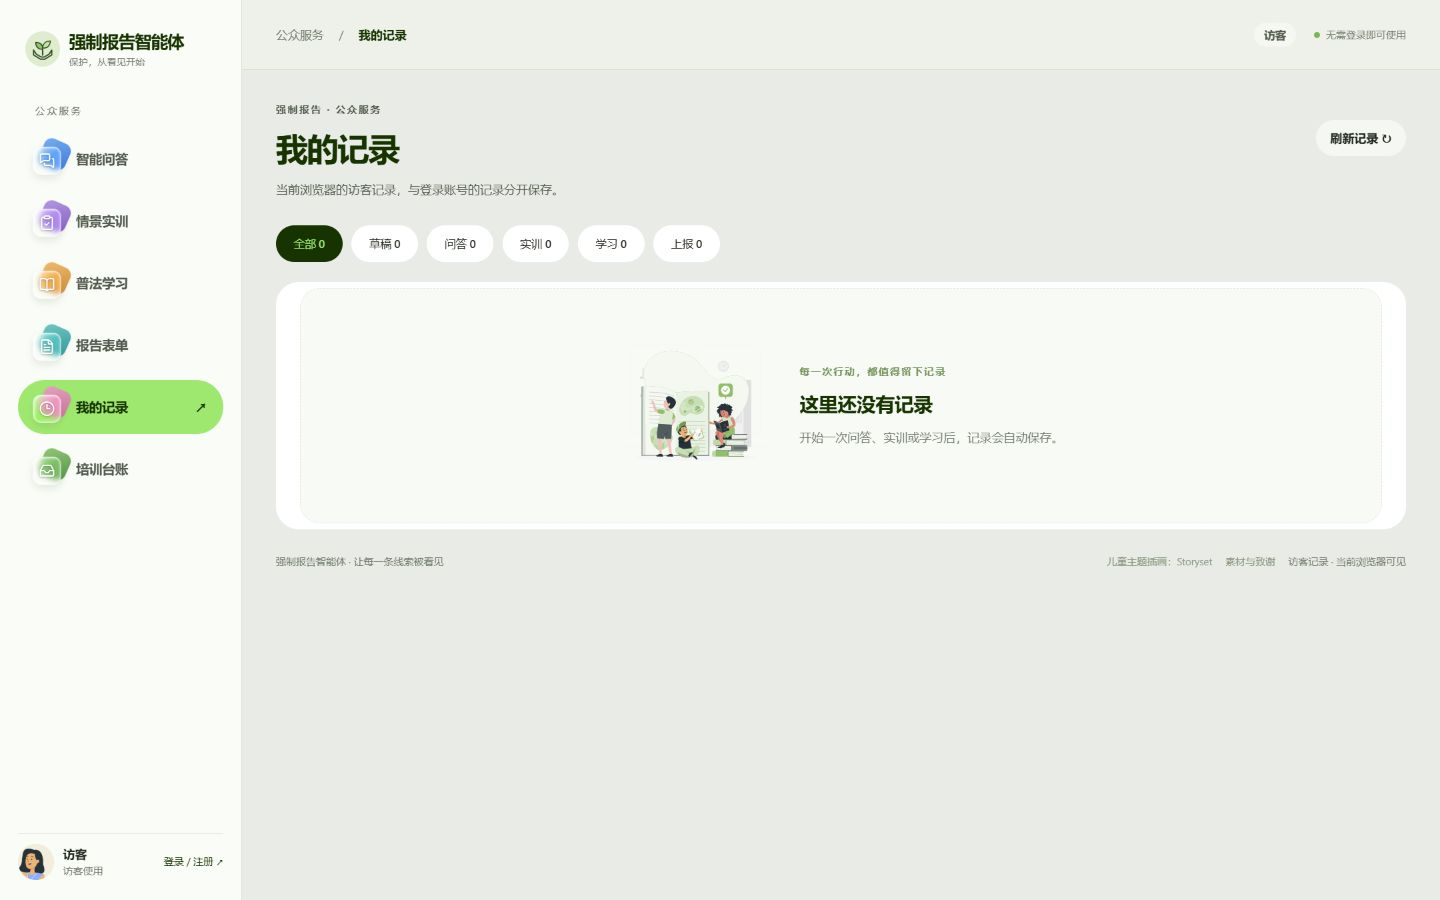
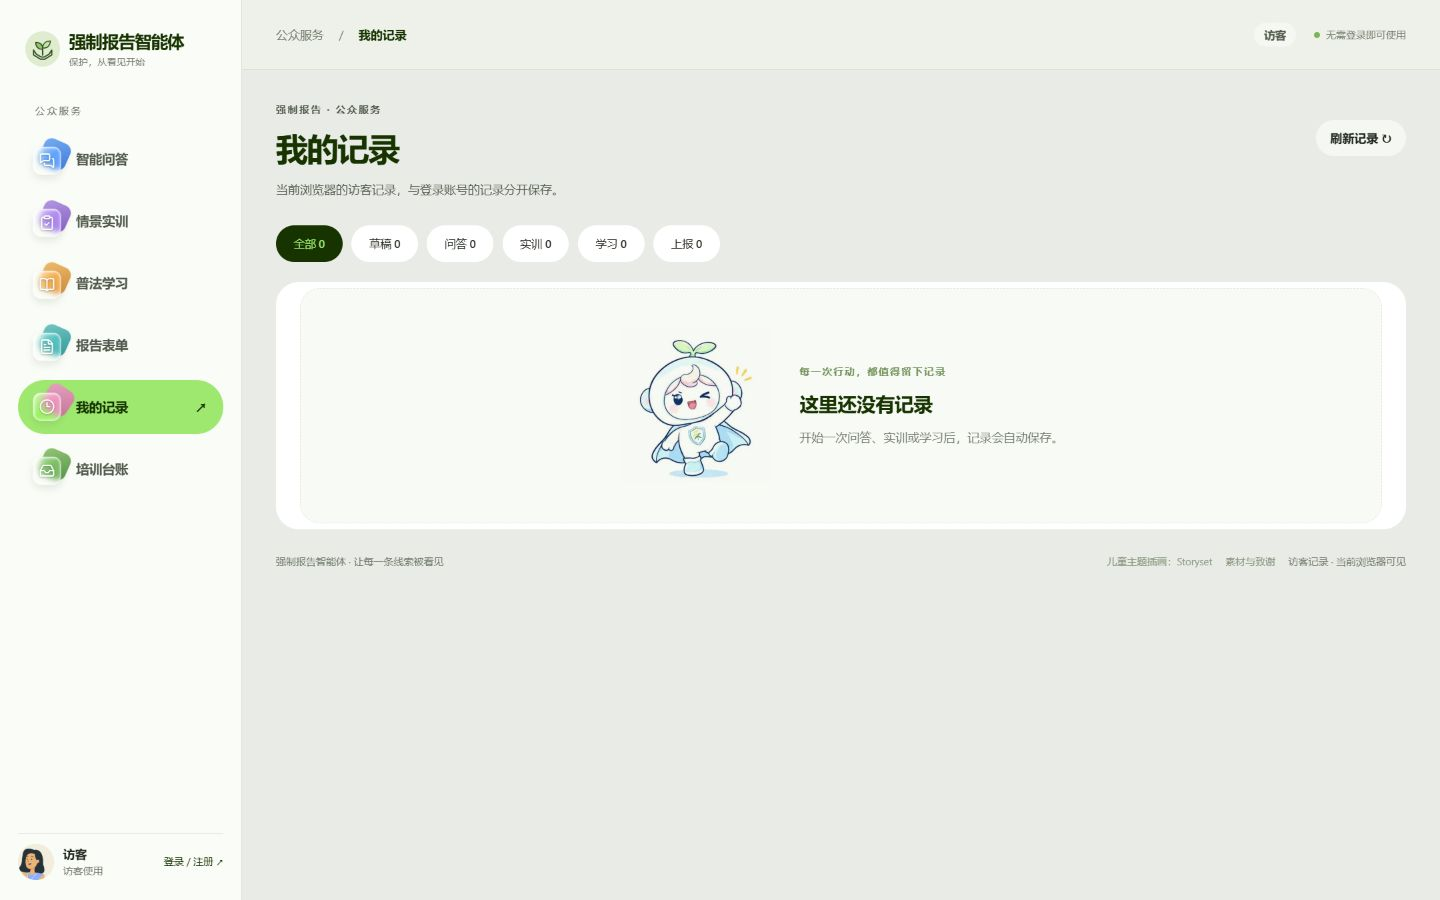
Integrate project mascot artwork into public service pages

Changed region(s): [[0.4375, 0.3733, 0.5312, 0.5289], [0.0, 0.4356, 0.0625, 0.4667]]

diff --git a/public/visual.js b/public/visual.js
@@ -4,15 +4,19 @@ const motion = matchMedia('(prefers-reduced-motion: reduce)');
 const observed = new WeakSet();
 let installed = false, frame = 0, lastCard = null;
 export const art = (name, className = '', eager = false) => {
+  // Project-supplied artwork; the sheet's bottom-right pose greets new visitors.
+  if (name === 'mascot-wave') return `<span class="theme-art mascot-art mascot-sprite ${className}" aria-hidden="true"><img src="/assets/mascot/guardian-expressions.jpg" width="1254" height="1254" alt="" decoding="async" loading="${eager ? 'eager' : 'lazy'}"></span>`;
+  const mascots = { 'mascot-question': ['/assets/mascot/guardian-question.png', 1078, 1459], 'mascot-confident': ['/assets/mascot/guardian-confident.png', 1254, 1254] };
+  if (mascots[name]) { const [src, width, height] = mascots[name]; return `<img class="theme-art mascot-art ${className}" src="${src}" width="${width}" height="${height}" alt="" aria-hidden="true" decoding="async" loading="${eager ? 'eager' : 'lazy'}">`; }
   const files = { support: '/assets/visual/children-support.svg', learning: '/assets/visual/children-learning.svg', reading: '/assets/visual/children-reading.svg' };
   return `<img class="theme-art ${className}" src="${files[name] || files.reading}" width="500" height="500" alt="" aria-hidden="true" decoding="async" loading="${eager ? 'eager' : 'lazy'}">`;
 };
 export function banner(kind) {
   const training = kind === 'training';
-  return `<section class="children-banner ${training ? 'training-banner' : 'learning-banner'}" data-reveal><div class="children-banner-copy"><span class="visual-eyebrow">${training ? '学会倾听，练习守护' : '把保护孩子的知识，变成行动'}</span><h2>${training ? '站在孩子身边，听见每一句需要。' : '多了解一点，孩子就多一份保护。'}</h2><p>${training ? '在虚构情景中练习识别、沟通与报告，让真实的保护更有准备。' : '从报告制度到沟通方法，读懂保护未成年人的每一个关键环节。'}</p><div class="banner-points"><span>${training ? '倾听与回应' : '制度要点'}</span><i></i><span>${training ? '风险识别' : '真实来源'}</span><i></i><span>${training ? '五步实训' : '行动指引'}</span></div></div>${art(training ? 'learning' : 'reading', 'banner-art', true)}</section>`;
+  return `<section class="children-banner ${training ? 'training-banner' : 'learning-banner'}" data-reveal><div class="children-banner-copy"><span class="visual-eyebrow">${training ? '学会倾听，练习守护' : '把保护孩子的知识，变成行动'}</span><h2>${training ? '站在孩子身边，听见每一句需要。' : '多了解一点，孩子就多一份保护。'}</h2><p>${training ? '在虚构情景中练习识别、沟通与报告，让真实的保护更有准备。' : '从报告制度到沟通方法，读懂保护未成年人的每一个关键环节。'}</p><div class="banner-points"><span>${training ? '倾听与回应' : '制度要点'}</span><i></i><span>${training ? '风险识别' : '真实来源'}</span><i></i><span>${training ? '五步实训' : '行动指引'}</span></div></div>${art(training ? 'mascot-confident' : 'reading', 'banner-art', true)}</section>`;
 }
 export function emptyArtwork(title, description) {
-  return `<div class="empty illustrated-empty">${art('reading')}<div><span class="visual-eyebrow">每一次行动，都值得留下记录</span><h3>${title}</h3><p class="muted">${description}</p></div></div>`;
+  return `<div class="empty illustrated-empty">${art('mascot-wave')}<div><span class="visual-eyebrow">每一次行动，都值得留下记录</span><h3>${title}</h3><p class="muted">${description}</p></div></div>`;
 }
 export const artCredit = '<a class="art-credit" href="https://storyset.com/people" target="_blank" rel="noopener noreferrer">儿童主题插画：Storyset</a>';
 export function installVisuals(root) {

diff --git a/static-files.js b/static-files.js
@@ -9,7 +9,8 @@ const routes = new Map(Object.entries({
 for (const name of ['login.css', 'login.js', 'account.js', 'style.css', 'portal.css', 'portal.js', 'shell.js', 'report.js', 'receiver.js', 'common.js', 'model-brand.js', 'event-stream.js', 'report-drafts.js', 'report-tags.js', 'icons.js', 'visual.js', 'visual.css', 'activity-view.js', 'stroke-text.js', 'login-title-paths.js', 'bounce-cards.js', 'specular-button.js', 'specular-light.js']) routes.set('/' + name, name);
 for (const name of ['Gemini.svg', 'OpenAI.svg', 'Claude.svg', 'deepseek.svg', 'GROK.svg', 'GLM.svg', 'kimi.svg', 'minimax-color.svg', 'longcat-bright.svg', 'AI.svg', 'login-child-before.png', 'login-child-after.png']) routes.set('/assets/' + name, 'assets/' + name);
 for (const name of ['children-support.svg', 'children-learning.svg', 'children-reading.svg', 'children-care.svg', 'children-play.svg', 'guardian-mark.svg', 'illustration-sources.json', 'icon-sources.json', 'adult-avatar-1.png', 'adult-avatar-2.png', 'adult-avatar-3.png', 'adult-avatar-4.png', 'adult-avatar-5.png', 'avatar-sources.json', 'licenses/lucide.txt', 'licenses/react-bits.txt']) routes.set('/assets/visual/' + name, 'assets/visual/' + name);
-const types = { '.html': 'text/html; charset=utf-8', '.css': 'text/css; charset=utf-8', '.js': 'application/javascript; charset=utf-8', '.svg': 'image/svg+xml', '.png': 'image/png', '.txt': 'text/plain; charset=utf-8', '.json': 'application/json; charset=utf-8' };
+for (const name of ['guardian-question.png', 'guardian-confident.png', 'guardian-expressions.jpg']) routes.set('/assets/mascot/' + name, 'assets/mascot/' + name);
+const types = { '.html': 'text/html; charset=utf-8', '.css': 'text/css; charset=utf-8', '.js': 'application/javascript; charset=utf-8', '.svg': 'image/svg+xml', '.png': 'image/png', '.jpg': 'image/jpeg', '.txt': 'text/plain; charset=utf-8', '.json': 'application/json; charset=utf-8' };
 for (const name of ['markdown.js', 'vendor/markdown-it.js', 'assets/visual/licenses/markdown-it.txt', 'assets/visual/licenses/markdown-it-cjk-friendly.txt', 'assets/visual/licenses/east-asian-width.txt']) routes.set('/' + name, name);
 const digest = value => crypto.createHash('sha256').update(value).digest('hex').slice(0, 16);
 
@@ -25,7 +26,7 @@ export function staticFiles(root) {
     if (ext === '.html' || ext === '.js') {
       let source = original.toString('utf8');
       // Keep the complete module graph on the same release, including its imports.
-      source = source.replace(/(["'])(\/(?:assets\/)?[^"'\s?]+\.(?:js|css|svg|png))\1/g, (all, quote, url) => quote + version(url) + quote);
+      source = source.replace(/(["'])(\/(?:assets\/)?[^"'\s?]+\.(?:js|css|svg|png|jpe?g))\1/g, (all, quote, url) => quote + version(url) + quote);
       if (name === 'portal.html' || name === 'report.html') {
         const modules = ['common.js', 'icons.js', 'visual.js', 'account.js', 'shell.js', 'report-drafts.js', 'event-stream.js', 'model-brand.js'];
         source = source.replace('</head>', modules.map(module => `<link rel="modulepreload" href="${version('/' + module)}">`).join('') + '</head>');
@@ -33,7 +34,7 @@ export function staticFiles(root) {
       buffer = Buffer.from(source);
     }
     const representations = { identity: buffer };
-    if (ext !== '.png' && buffer.length > 512) {
+    if (!['.png', '.jpg'].includes(ext) && buffer.length > 512) {
       representations.br = brotliCompressSync(buffer, { params: { [constants.BROTLI_PARAM_QUALITY]: 4 } });
       representations.gzip = gzipSync(buffer, { level: 6 });
     }

diff --git a/public/credits.html b/public/credits.html
@@ -11,6 +11,7 @@
     <article class="credit-item"><img class="theme-art" src="/assets/visual/children-care.svg" alt="儿科医生用玩具安抚孩子" width="500" height="500"><h2>温柔照护 · Pediatrician</h2><p>Rafiki 系列，插画来自 <a href="https://storyset.com/illustration/pediatrician/rafiki" target="_blank" rel="noopener noreferrer">Storyset</a>。按项目配色调整。</p></article>
     <article class="credit-item"><img class="theme-art" src="/assets/visual/children-play.svg" alt="两个孩子装扮成小超人和恐龙一起玩耍" width="500" height="500"><h2>安心玩耍 · Kids playing with dolls</h2><p>Rafiki 系列，插画来自 <a href="https://storyset.com/illustration/kids-playing-with-dolls/rafiki" target="_blank" rel="noopener noreferrer">Storyset</a>。按项目配色调整。</p></article>
   </section>
+  <div class="credit-note"><strong>项目守护形象</strong><p>智能问答欢迎区、情景实训和记录空状态使用项目提供的形象稿。根据场景选用疑问、守护与挥手姿态。</p></div>
   <div class="credit-note"><strong>成人用户头像 · Group</strong><p>侧栏五枚成人头像裁自 <a href="https://storyset.com/illustration/group/rafiki" target="_blank" rel="noopener noreferrer">Storyset Group · Rafiki</a>，分离人物后裁切头肩、添加浅色背景。同一访客或账号保持固定头像。</p></div>
   <div class="credit-note"><strong>Illustrations by Storyset</strong><p>上述插画依据 Storyset / Freepik License 使用，并保留可见署名。<a href="https://storyset.com/faqs" target="_blank" rel="noopener noreferrer">官方许可说明</a></p></div>
   <div class="credit-note"><strong>图标与动态交互</strong><p>界面图标采用 <a href="https://lucide.dev/" target="_blank" rel="noopener noreferrer">Lucide</a>，版权归 Lucide Contributors 及相关 Feather 作者所有。<a href="/assets/visual/licenses/lucide.txt" target="_blank" rel="noopener">完整许可证</a>。</p><p>淡入与柔光交互参考 <a href="https://reactbits.dev/" target="_blank" rel="noopener noreferrer">React Bits</a> 的 Fade Content / Spotlight Card，以及 <a href="https://reactbits.dev/c/text-animations/stroke-text" target="_blank" rel="noopener noreferrer">Stroke Text</a> 逐字描边填色动画，由本项目适配为原生 CSS/JavaScript。Copyright © 2026 David Haz。<a href="/assets/visual/licenses/react-bits.txt" target="_blank" rel="noopener">完整许可证</a>。</p><p>“双手守护新芽”标识为本项目绘制；登录页人物素材由项目提供。</p></div>

diff --git a/public/portal.js b/public/portal.js
@@ -181,7 +181,7 @@ function chatCard(training = false) {
 function updateChat() {
   if (!$("chat-messages")) return;
   stopQuestions();
-  $("chat-messages").innerHTML = current ? messagesHTML(current) : `<div class="chat-welcome"><div class="welcome-scene"><div class="welcome-copy"><span class="visual-eyebrow">从看见孩子，到站在孩子身边</span><h2>先聊聊您遇到的情况。</h2><p>关于孩子的不安、求助和需要，<br>我们一起理清保护的下一步。</p><div class="welcome-assurance"><span>${icon("listen")}认真倾听</span><span>${icon("shield")}保护隐私</span></div></div>${art('reading', 'welcome-art', true)}</div><div id="question-carousel" class="question-carousel" aria-live="off"><div id="quick-questions" class="question-examples">${questionButtons()}</div></div></div>`;
+  $("chat-messages").innerHTML = current ? messagesHTML(current) : `<div class="chat-welcome"><div class="welcome-scene"><div class="welcome-copy"><span class="visual-eyebrow">从看见孩子，到站在孩子身边</span><h2>先聊聊您遇到的情况。</h2><p>关于孩子的不安、求助和需要，<br>我们一起理清保护的下一步。</p><div class="welcome-assurance"><span>${icon("listen")}认真倾听</span><span>${icon("shield")}保护隐私</span></div></div>${art('mascot-question', 'welcome-art', true)}</div><div id="question-carousel" class="question-carousel" aria-live="off"><div id="quick-questions" class="question-examples">${questionButtons()}</div></div></div>`;
   if (!current) startQuestions();
   const retry = $("chat-retry");
   const pending = current?.messages.at(-1)?.role === "user";

diff --git a/public/visual.css b/public/visual.css
@@ -36,3 +36,13 @@
 @media(min-width:1200px){.welcome-scene{grid-template-columns:minmax(0,1fr) 250px}.public-page .welcome-art{width:250px;height:190px}.children-banner{grid-template-columns:minmax(0,1fr) 250px;padding-top:16px;padding-bottom:16px}.children-banner .banner-art{width:250px;height:218px;transform:scale(1.18)}}
 @media(max-width:850px){.public-page .chat-layout .chat-welcome{min-height:0}.children-banner .banner-art{transform:scale(1.1)}}
 @media(max-width:767px){.children-banner{grid-template-columns:minmax(0,1fr) 124px}.children-banner .banner-art{width:124px;height:144px}}
+
+/* Keep the supplied character proportions and blend its white paper into each surface. */
+.mascot-art{mix-blend-mode:multiply}
+.public-page .welcome-art.mascot-art{width:190px;height:220px;justify-self:center}
+.children-banner .banner-art.mascot-art{width:210px;height:210px;justify-self:center;transform:none}
+.mascot-sprite{position:relative;overflow:hidden;aspect-ratio:1}
+.mascot-sprite>img{position:absolute;display:block;width:300%;height:300%;max-width:none;left:-200%;top:-200%;pointer-events:none;user-select:none}
+.public-page .illustrated-empty>.mascot-sprite{height:auto;aspect-ratio:1}
+@media(max-width:1199px){.public-page .welcome-art.mascot-art{width:150px;height:190px}.children-banner .banner-art.mascot-art{width:170px;height:180px}}
+@media(max-width:767px){.public-page .welcome-art.mascot-art{width:112px;height:145px}.children-banner .banner-art.mascot-art{width:124px;height:144px}}

diff --git a/docs/UI_PREVIEW.md b/docs/UI_PREVIEW.md
@@ -1,6 +1,6 @@
 # 强制报告智能体界面预览
 
-以下为登录首页及访客进入后的主要页面截图。截图于 2026 年 10 月 19 日采集，浏览器视口为 **1440 × 900**，展示电脑端页面首屏。
+以下为登录首页及访客进入后的主要页面截图。截图采集于 2026 年 10 月 19 日至 25 日，浏览器视口为 **1440 × 900**，展示电脑端页面首屏。问答、实训、记录与台账截图已更新项目守护形象。
 
 从登录页右上角点击“先以访客使用”，即可进入公众服务。访客无需注册，可使用智能问答、情景实训、普法学习和报告表单，并查看当前浏览器的记录与培训台账。
 
@@ -12,13 +12,13 @@
 
 ## 访客智能问答
 
-访客进入后默认打开智能问答页。页面包含公众服务导航、对话模型选择、最近对话、快捷问题和智能助手欢迎区。
+访客进入后默认打开智能问答页。页面包含公众服务导航、对话模型选择、最近对话、快捷问题和智能助手欢迎区，疑问姿态的守护形象陪伴用户开始提问。
 
 ![访客智能问答首页，展示侧边导航、模型选择和快捷问题](screenshots/02-guest-ask.png)
 
 ## 情景实训
 
-通过虚构案例练习风险识别、沟通和报告判断。案例卡片标明适用岗位、角色和难度，并提供“开始实训”入口。
+通过虚构案例练习风险识别、沟通和报告判断。横幅使用双手叉腰的守护形象，案例卡片标明适用岗位、角色和难度，并提供“开始实训”入口。
 
 ![情景实训首页，展示儿童主题插画和不同岗位的案例卡片](screenshots/03-guest-training.png)
 
